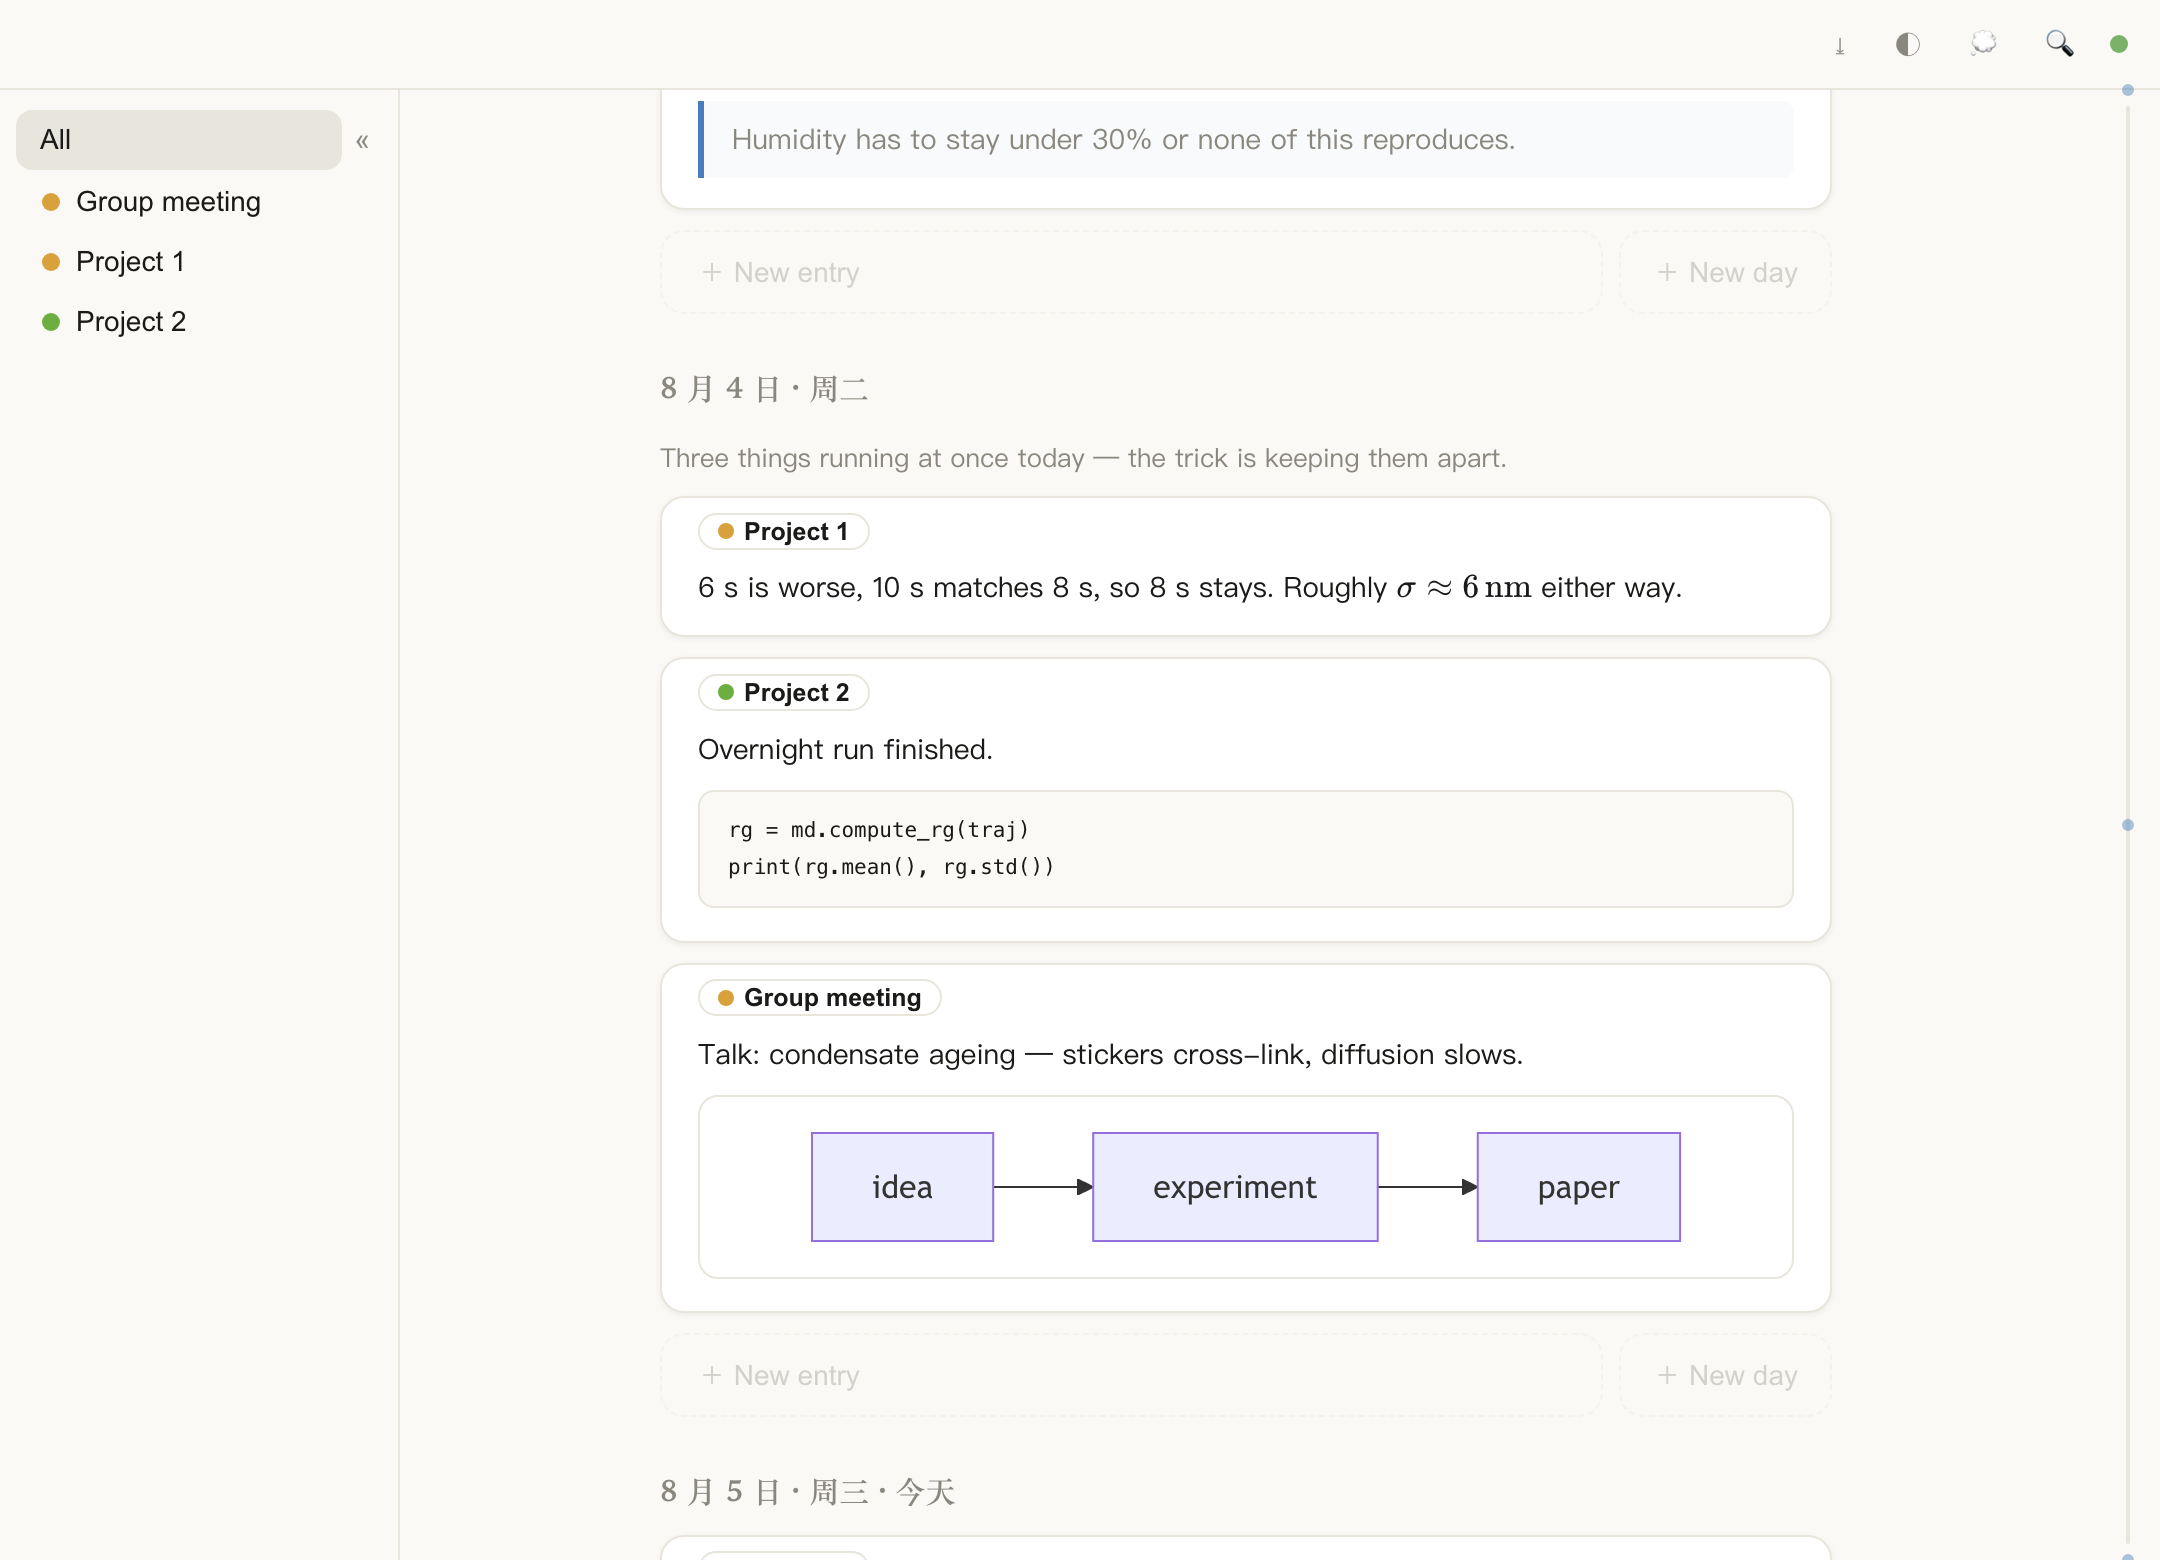
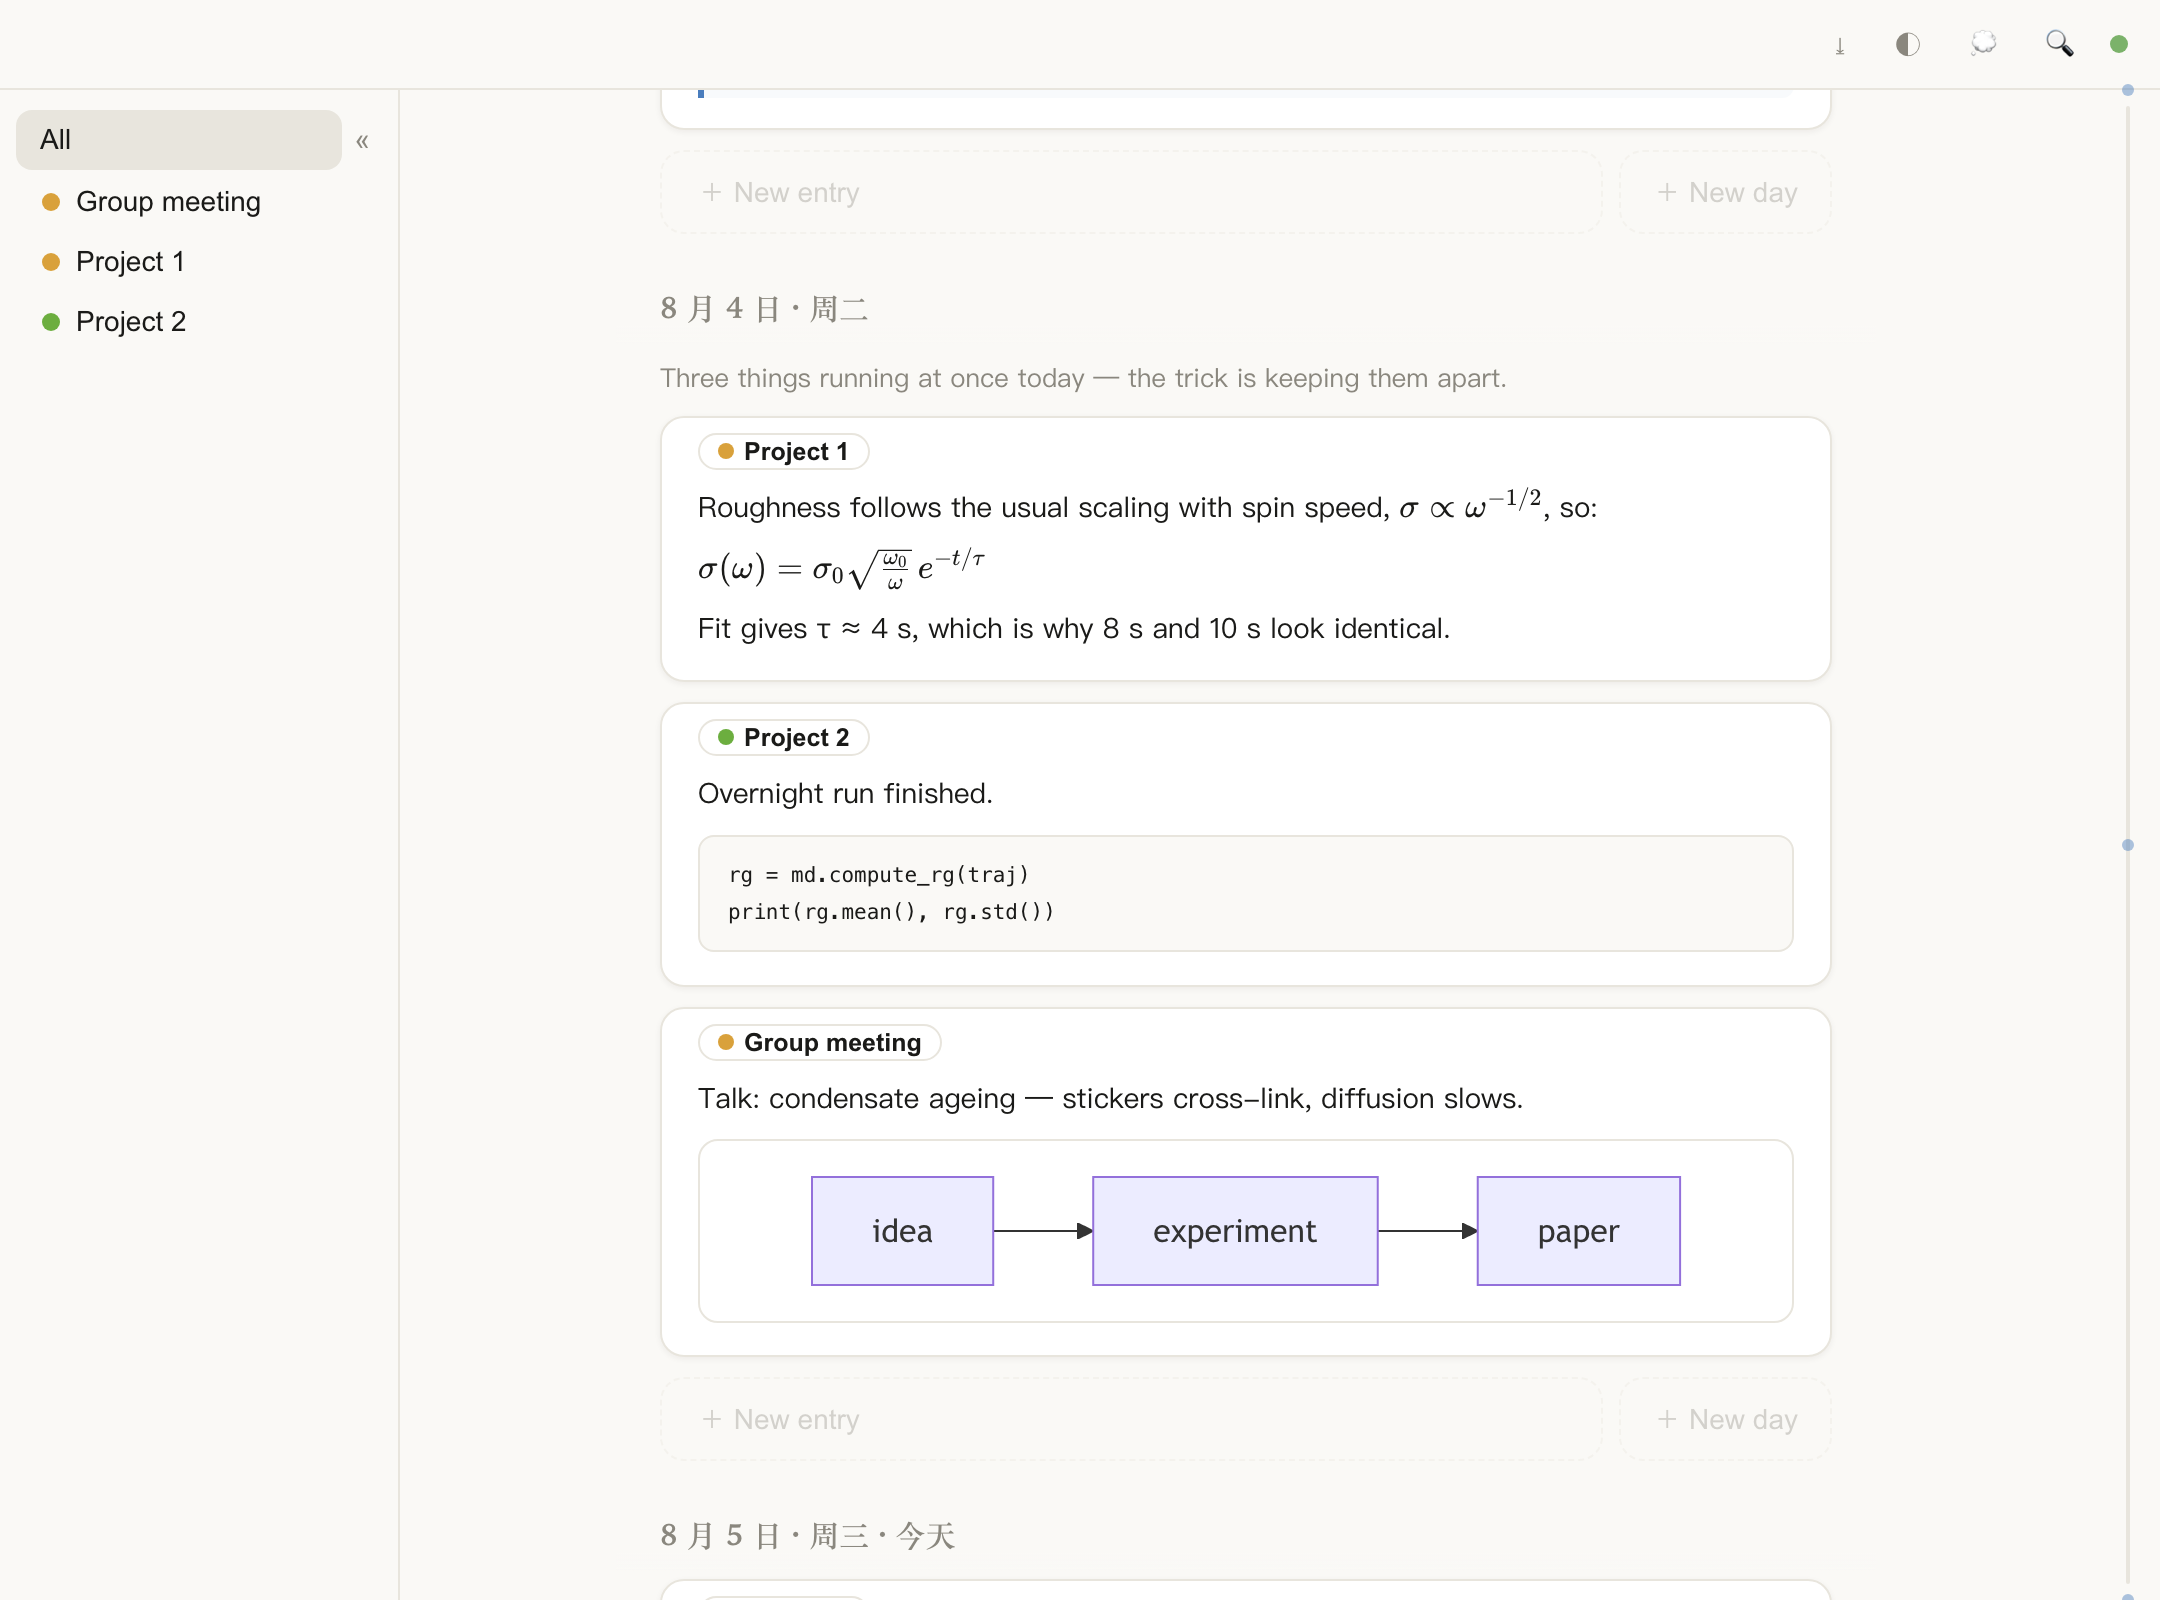
docs: lead screenshot opens on a rendered equation; figures and citation back in
The first card in the hero shot was plain prose. It now carries a display equation
so the maths rendering is the first thing a reader sees. The media shot had lost its
figures, citation card and AI embed when the demo database was reseeded — restored.

diff --git a/server/src/welcome.js b/server/src/welcome.js
@@ -105,8 +105,10 @@ export const SAMPLE_CARDS = [
     ] },
   )],
   [1, 'Project 1', doc(
-    line(plain('6 s is worse, 10 s matches 8 s, so 8 s stays. Roughly '),
-         plain('$\\sigma \\approx 6\\,\\mathrm{nm}$'), plain(' either way.')),
+    line(plain('Roughness follows the usual scaling with spin speed, '),
+         plain('$\\sigma \\propto \\omega^{-1/2}$'), plain(', so:')),
+    p('$$\\sigma(\\omega) = \\sigma_0\\sqrt{\\frac{\\omega_0}{\\omega}}\\,e^{-t/\\tau}$$'),
+    p('Fit gives τ ≈ 4 s, which is why 8 s and 10 s look identical.'),
   )],
   [1, 'Project 2', doc(
     p('Overnight run finished.'),
